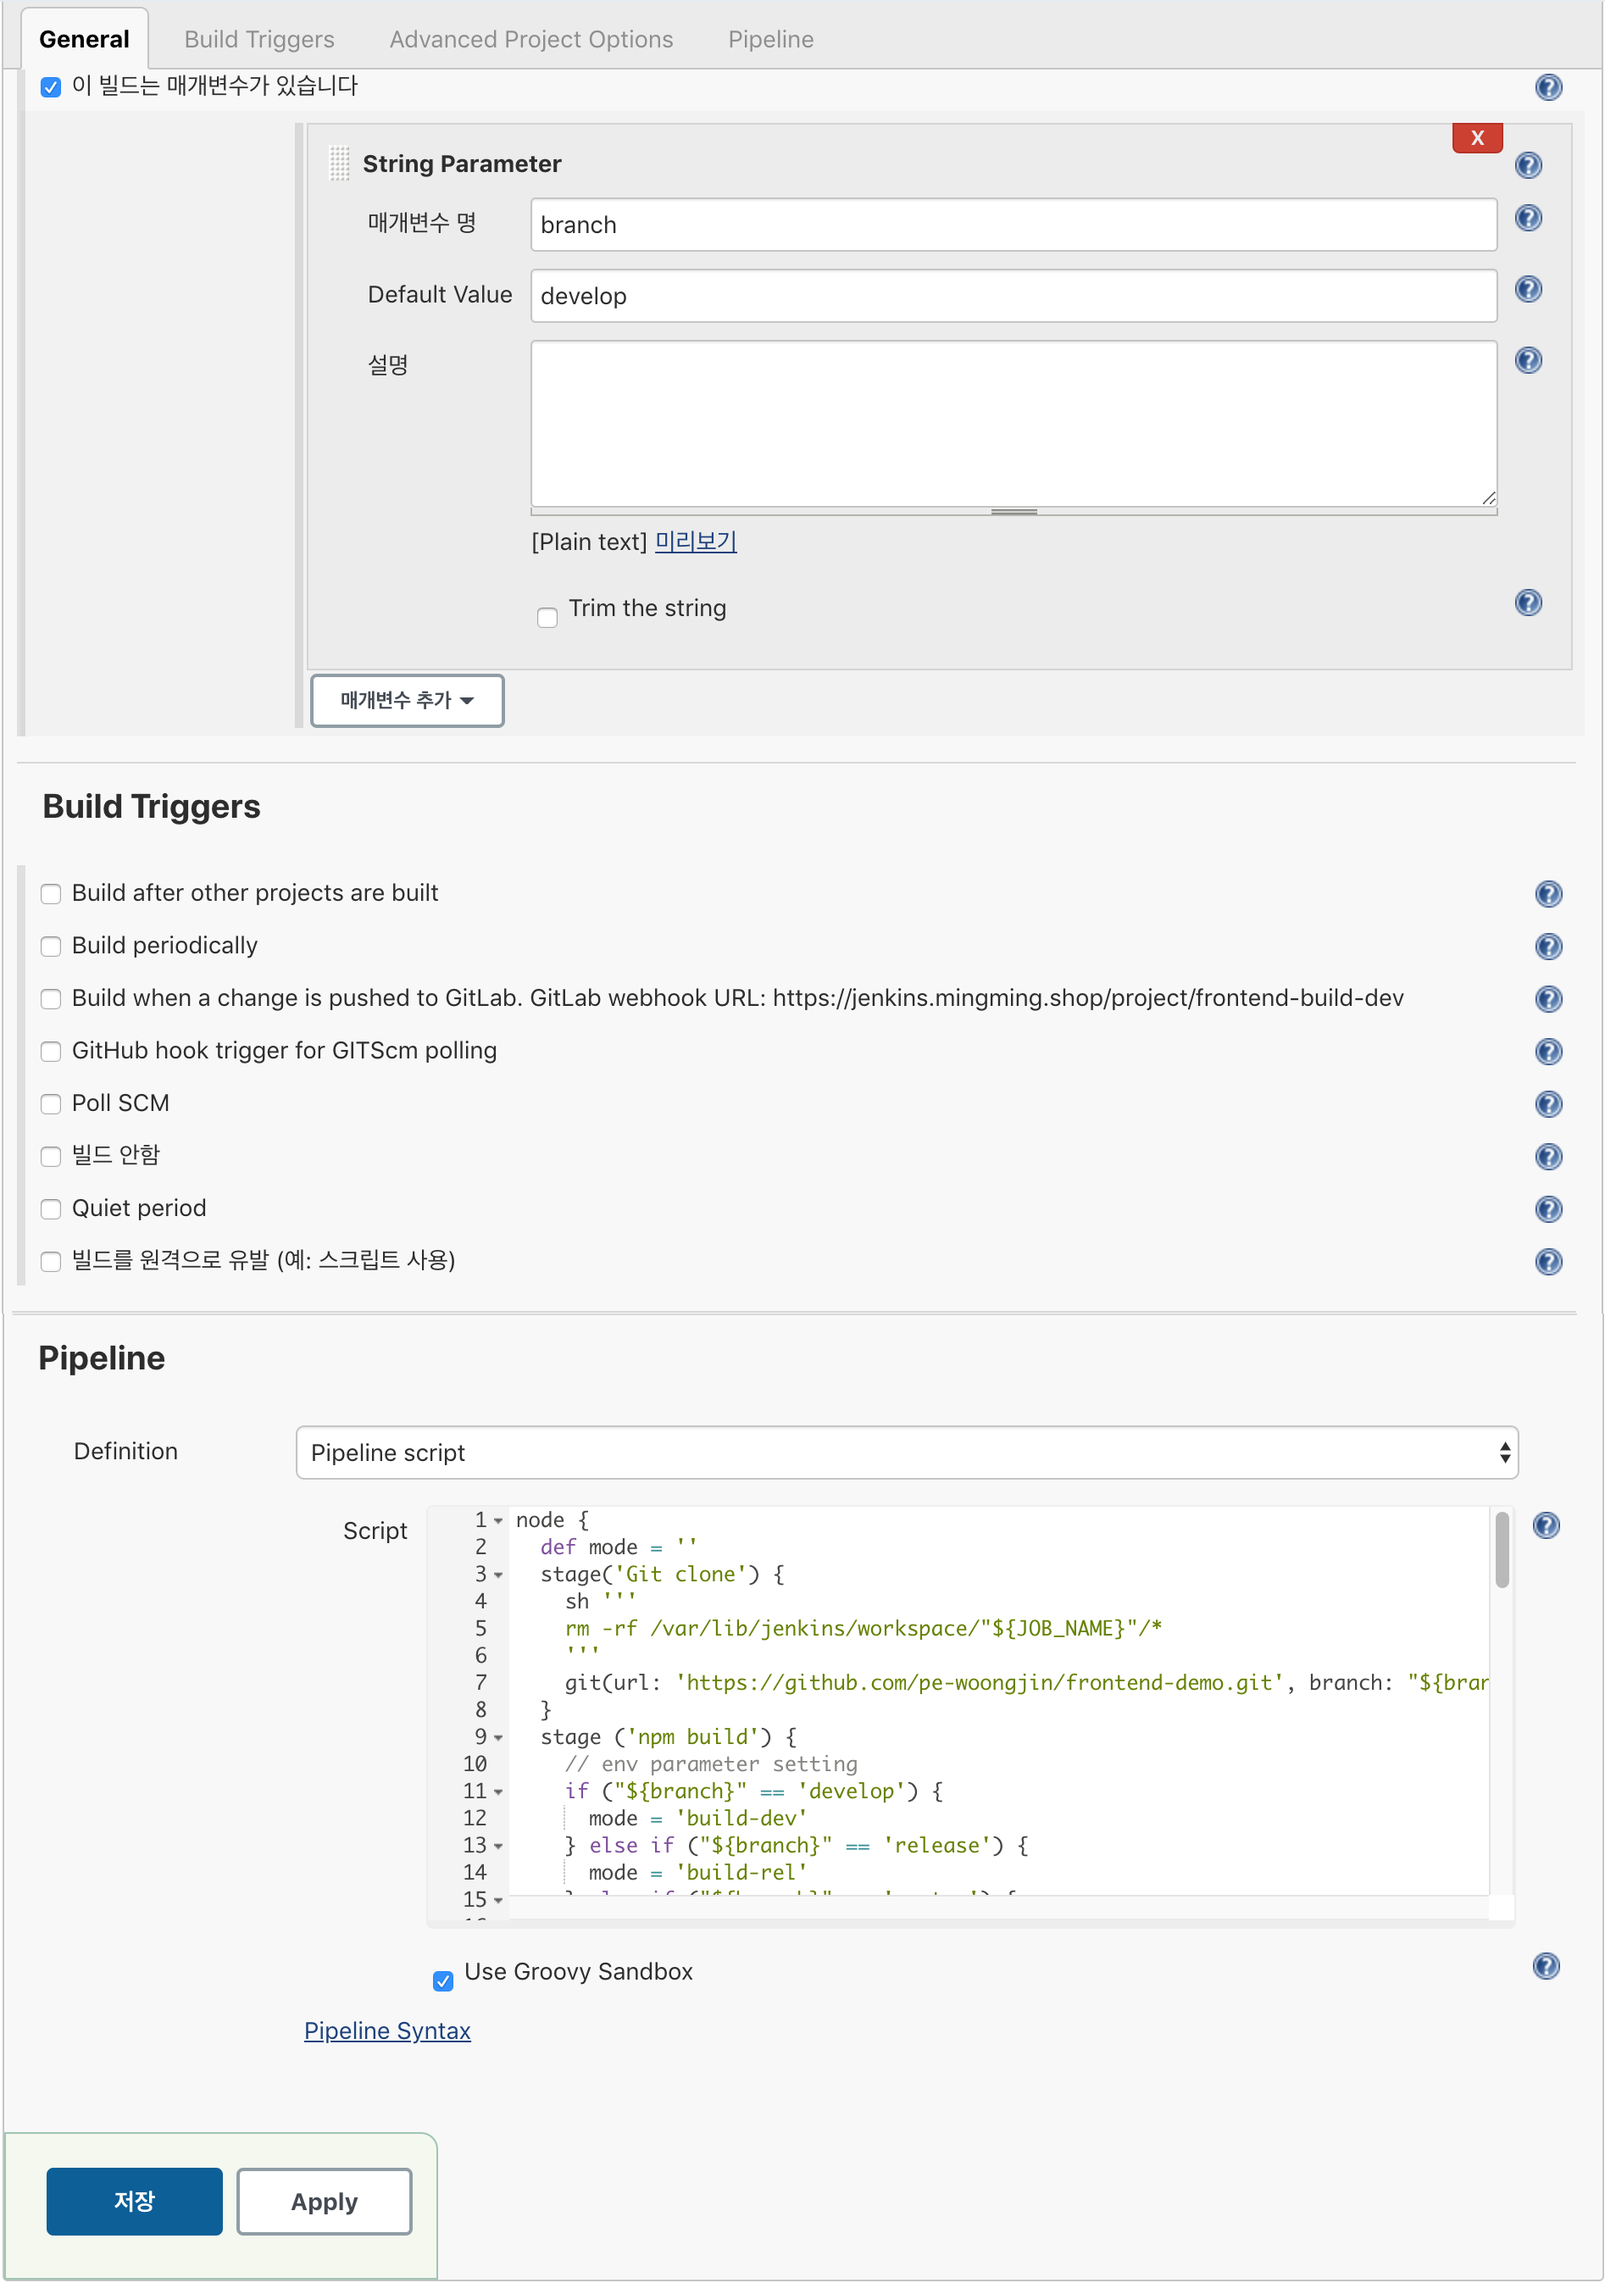
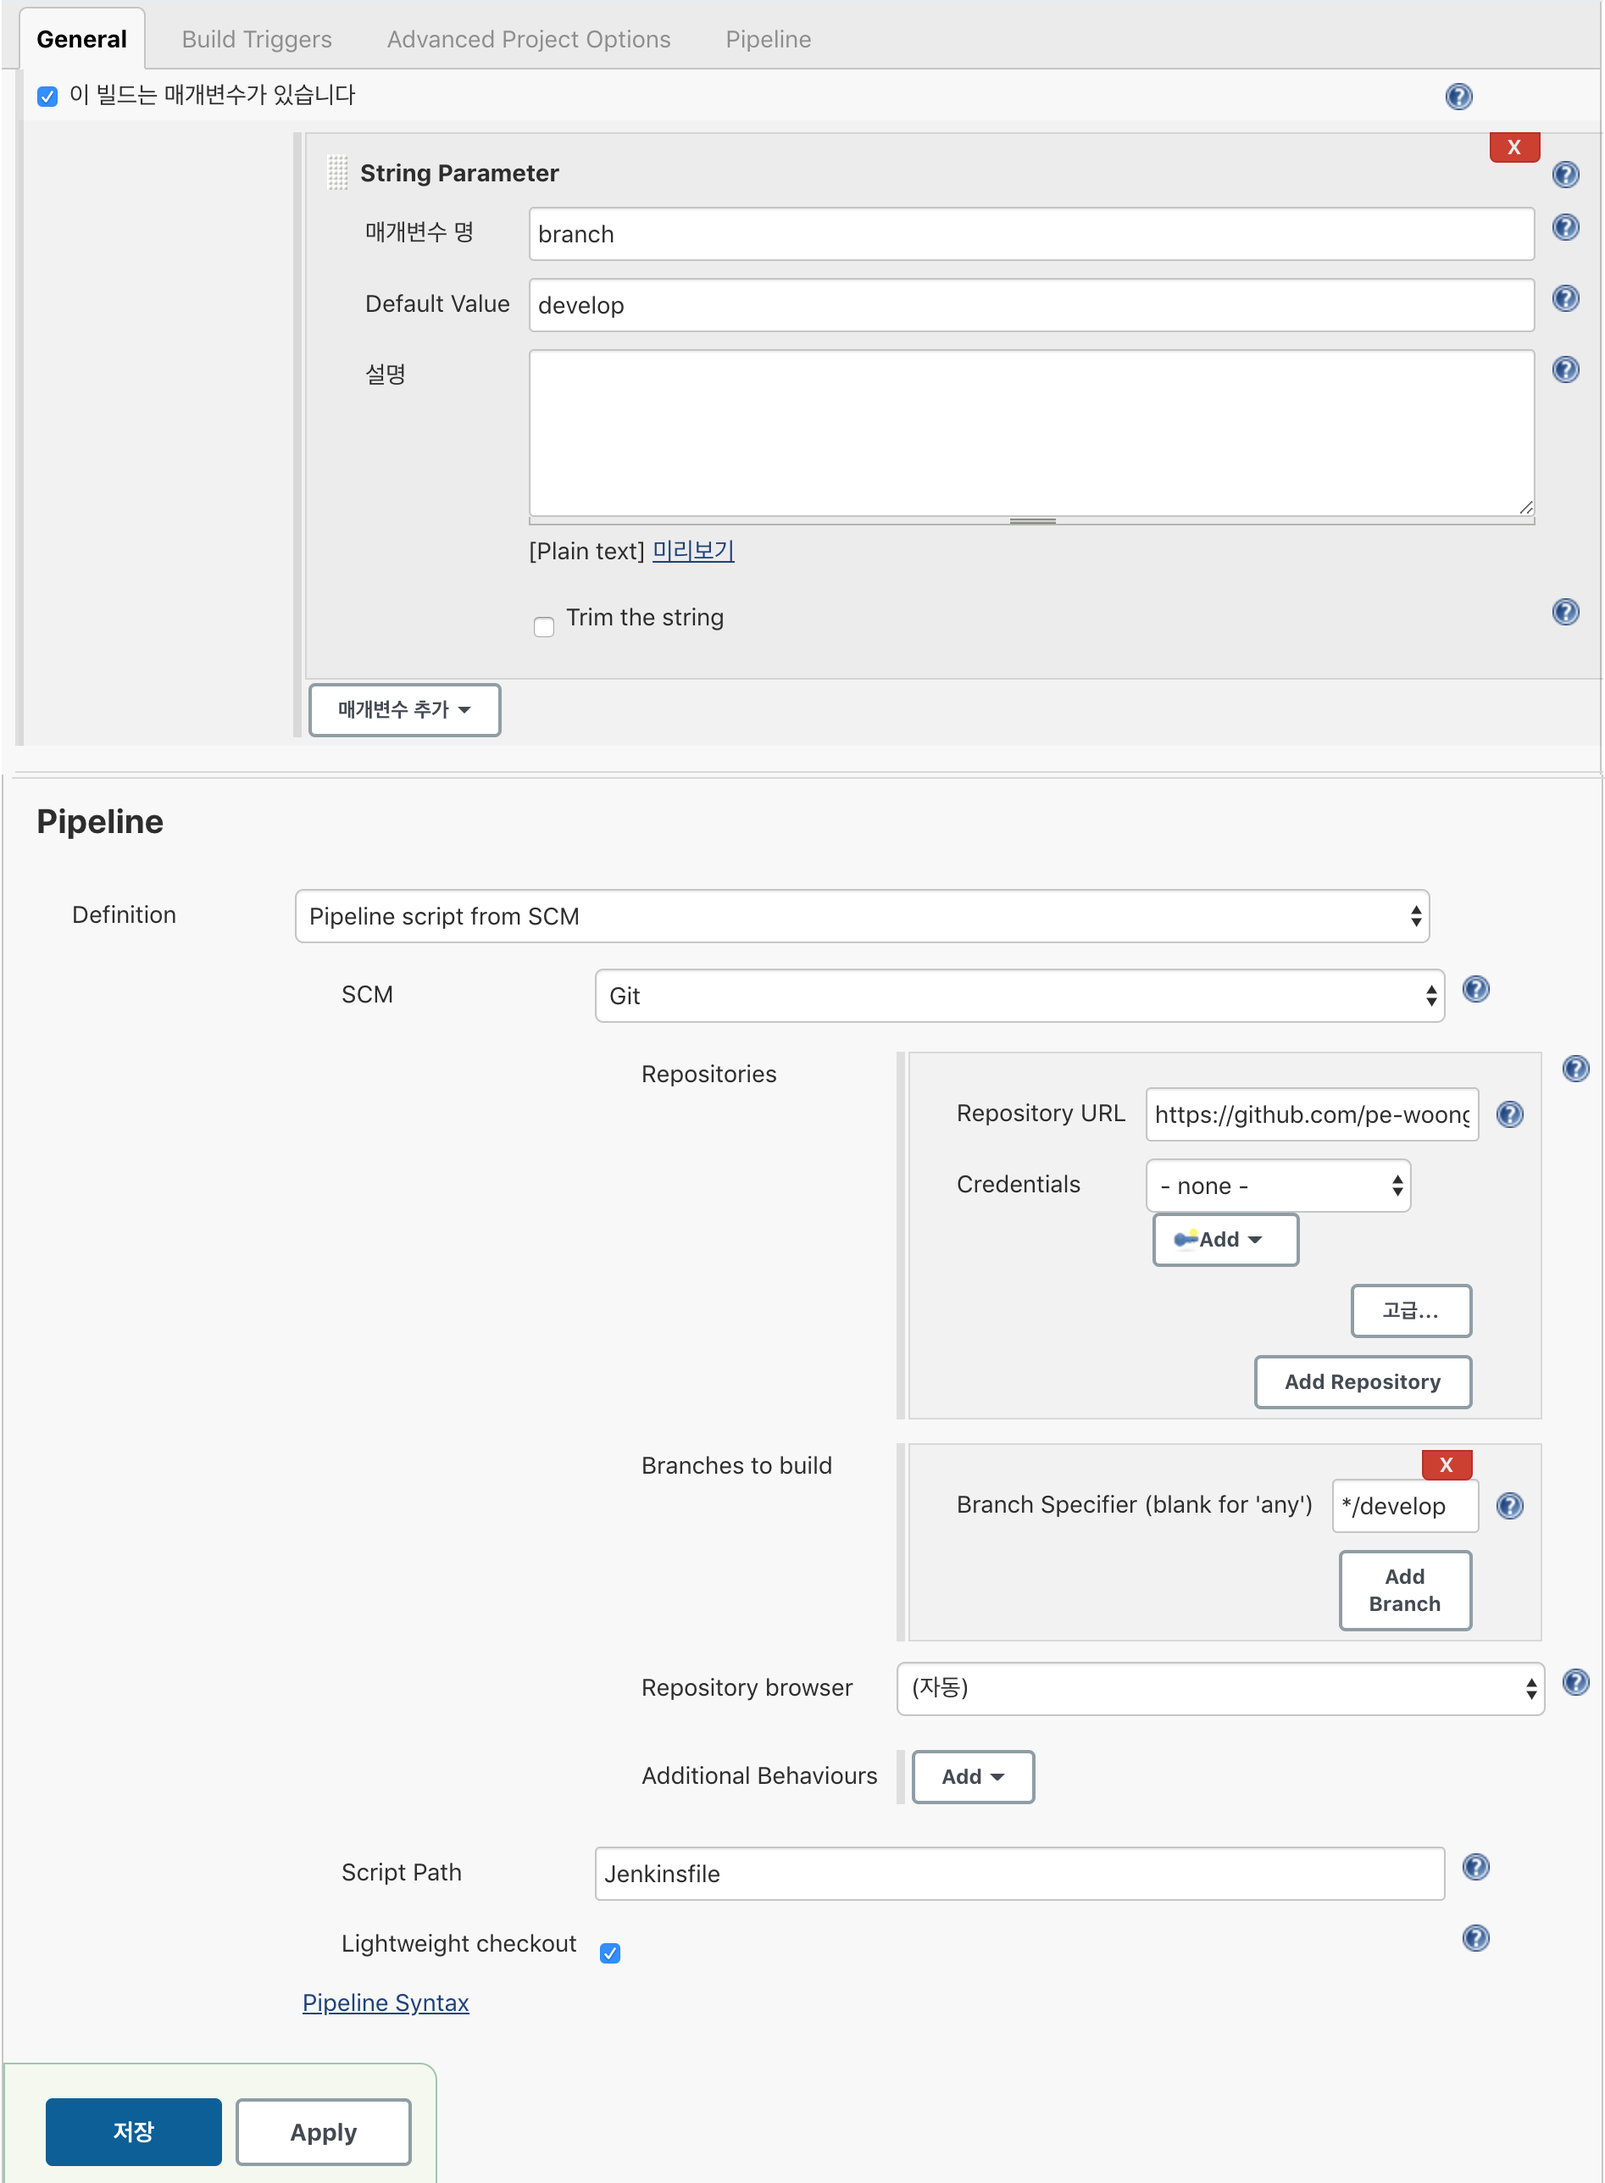
[CMSA-378] frontend app 무정지 배포 cicd 가이드 문서 작성
[Resolution]
cicd mkdocs 가이드 문서 작성

[DoD]
https://pe-woongjin.github.io/frontend-demo/

[Team] PE
[Company] Bespinglobal

diff --git a/mkdocs/docs/deployment/jenkins.md b/mkdocs/docs/deployment/jenkins.md
@@ -32,8 +32,33 @@
 > - try-catch문 사용가능
 
 ### 3) jenkins 화면
-> JenkinsFile 의 parameter와 jenkins화면의 parameter를 맞춰준다.
->> - Blue green 배포 방식
->>> Pipeline script에 AWS CLI를 이용하여 아래와 같은 순서로 배포를 진행.<br>
->> (GIT - build - S3 Upload - Bule Green 식별 - codedeploy - ALB Routing)
+> - JenkinsFile 의 parameter와 jenkins화면의 parameter를 맞춰준다.
+> - JenkinsFile 이 있는 프로젝트 GitHub 정보를 입력한다.
 ![Screenshot](../img/jenkins/jenkins_02.png)
+
+## 3. Jenkins Blue-Green 배포 방식
+### 1) 배포 선행작업 
+> - APP 프로젝트에 JenkinsFile 이 설정되어 있어야 한다.
+> - Codedeploy 가 정상적으로 생성되어 있어야 된다.
+> - Codedeploy 가 정상 수행 가능하도록 프로젝트에 appspec.yml이 정상적으로 설정되어 있어야 한다. 
+
+### 2) JenkinsFile 배포 내용
+![Screenshot](../img/jenkins/jenkins_03.png)
+> - Pre-Process
+>> 사전 준비 단계로 배포에 필요한 변수값 셋팅한다. (blue, green 사용 변)
+> - Git clone
+>> Github에서 frontend 프로젝트 clone 받는다. 
+> - Npm build
+>> git에서 받은 frontend 프로젝트 배포 파일을 생성한다.
+> - S3 upload
+>> frontend 프로젝트 배포 파일을 zip 파일로 변경하여, S3에 저장한다.
+> - Preparing Auto-Scale Stage
+>> blue 가 사용인 경우 green Auto-scaling group을 최소 단위로 활성화 시킨다.
+> - Deploy
+>> AWS CodeDeploy를 실행하여, green에 frontend 를 배포한다.
+> - Health-Check
+>> AWS CodeDeploy 배포 완료를 기다린다.
+> - Change LB-Routing
+>> ALB에 맵핑되어 있는 blue와 green 의 target group을 변경하여 새로 배포돠어 있는 green을 사용가능하게 한다.
+> - Stopping Blue Stage
+>> 기존에 사용중인 blue 영역을 정지시킨다.
